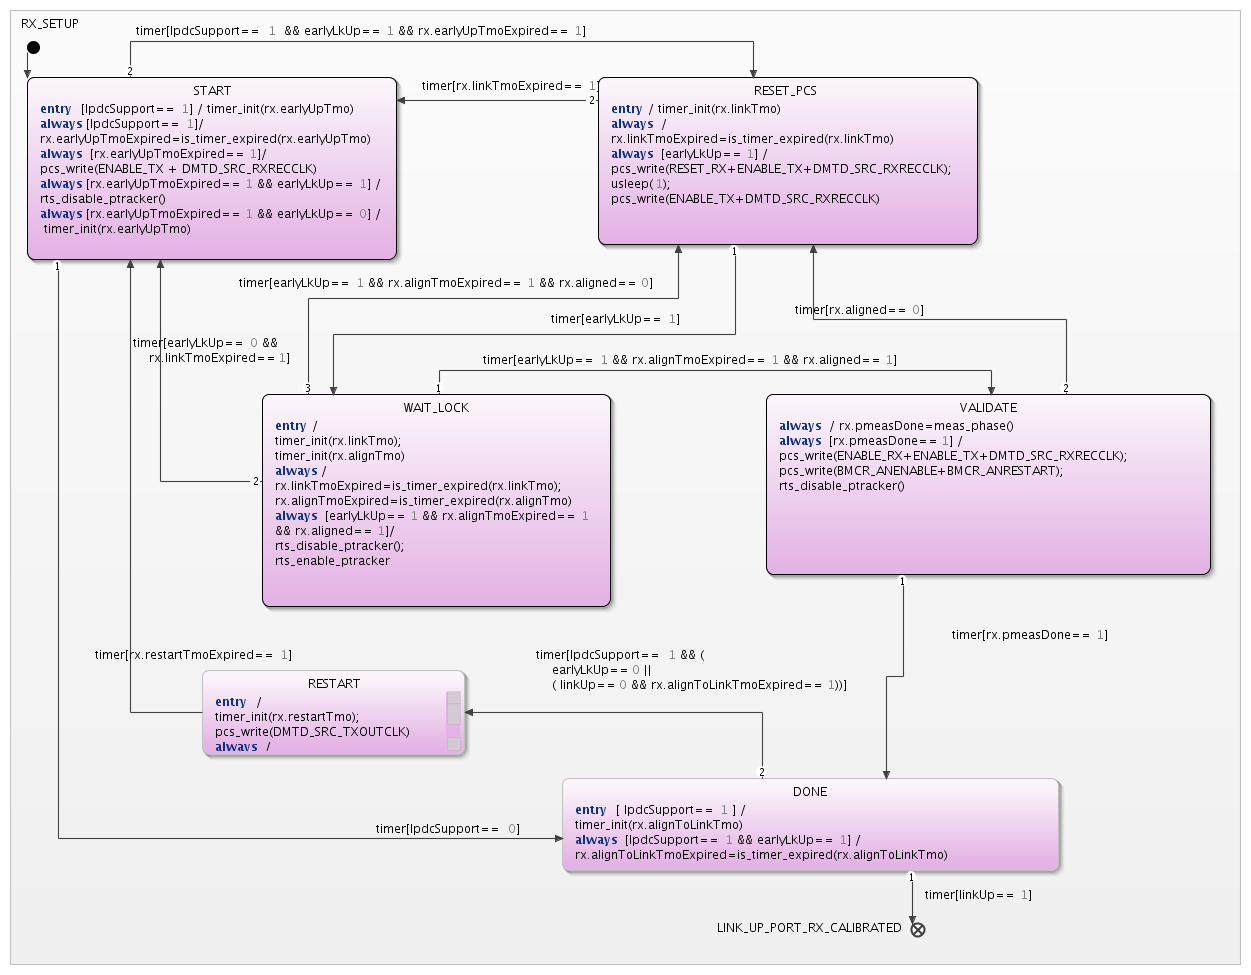
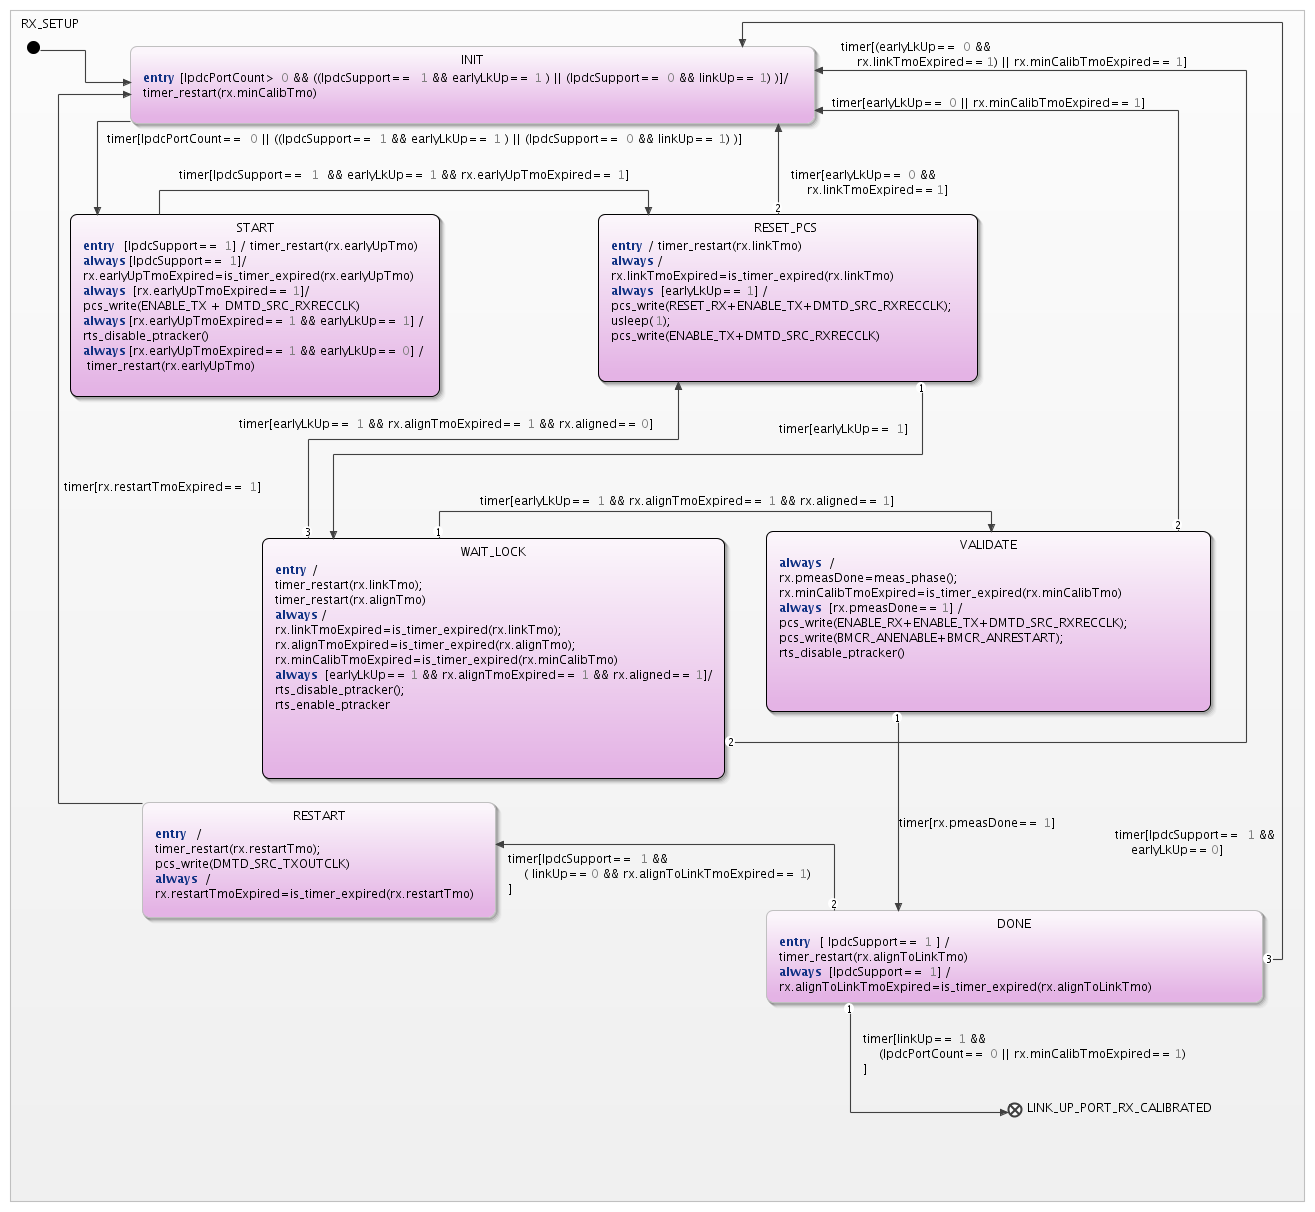
HAL: Update documentation (yakindu)

diff --git a/userspace/wrsw_hal/yakindu/hal.h b/userspace/wrsw_hal/yakindu/hal.h
@@ -23,6 +23,7 @@ typedef int32_t timeOut_t;
 #define BMCR_ANRESTART 1
 
 extern void timer_init(timeOut_t tmo);
+extern void timer_restart(timeOut_t tmo);
 extern Boolean is_timer_expired(timeOut_t tmo);
 extern void usleep(int);
 extern pcs_write(int );
